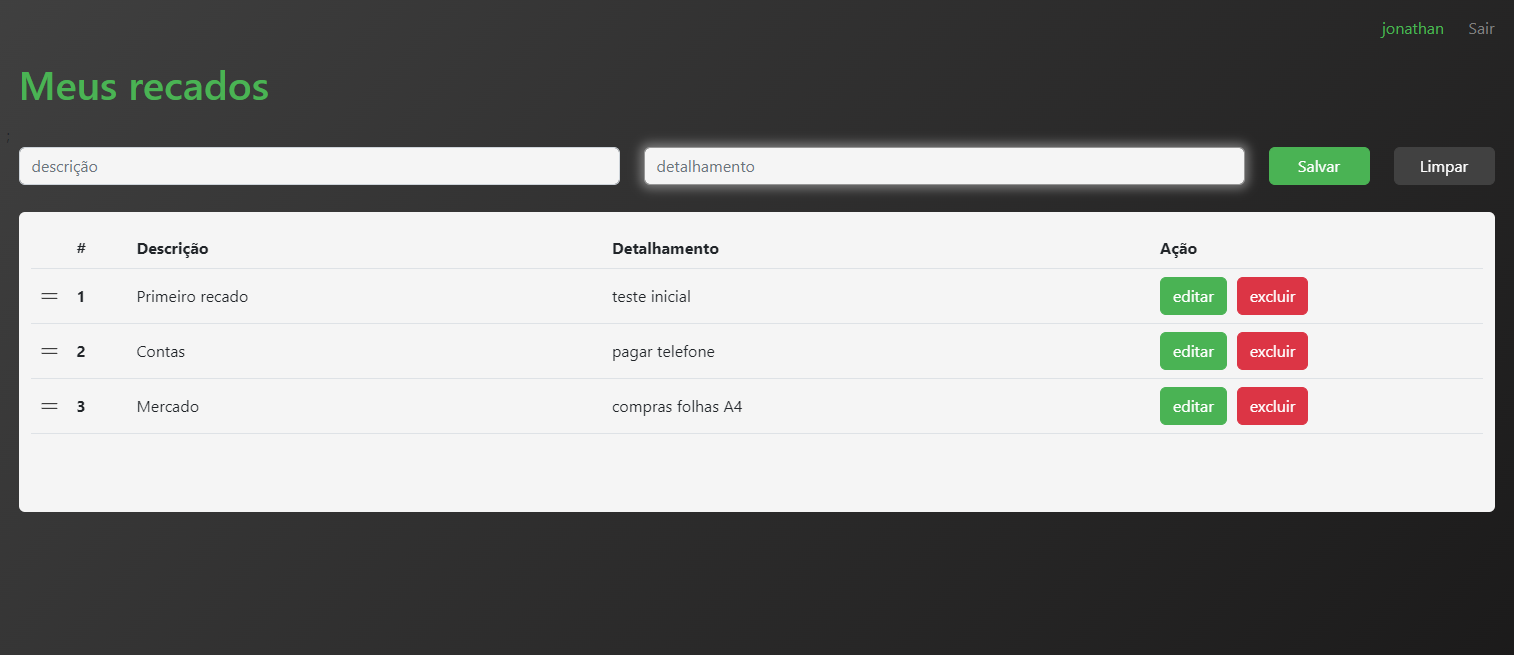
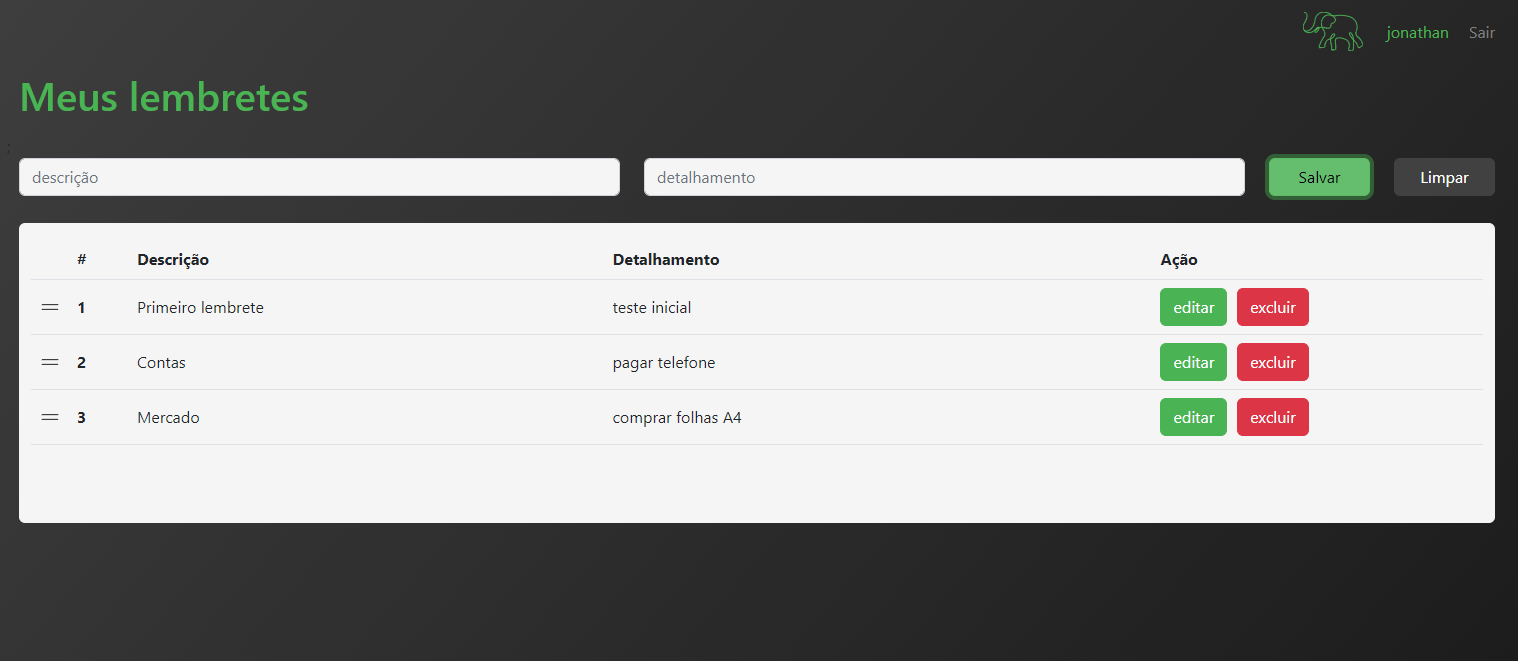
update readme.md

diff --git a/readme.md b/readme.md
@@ -1,13 +1,13 @@
-# APP de Recados
+# APP de Lembretes
 
 O APP consiste em três páginas que permitem:
 - Registro de usuários
 - Login
-- Exibição de recados 
-- Adição de novo recado
-- Edição de recado
-- Exclusão de recado
-- Reordenar recados
+- Exibição de lembretes 
+- Adição de novo lembrete
+- Edição de lembrete
+- Exclusão de lembrete
+- Reordenar lembretes
 
 A proposta foi exercitar mecanismos de CRUD (_create_, _read_, _update_, _delete_) utilizando ```localStorage``` para persistir os dados.
 
@@ -40,7 +40,7 @@ Os dados de Registro são salvos no ```LocalStorage``` para futura utilização.
 
 <br>
 
-O código ```Javascript``` da **página de Recados** valida as informações digitadas no formulário e só libera o botão de registro (criar conta) quando:
+O código ```Javascript``` da **página de Criar Conta** valida as informações digitadas no formulário e só libera o botão de registro (criar conta) quando:
 - Todos campos estão preenchidos
 - Dois campos de senha conferem (informações digitadas são iguais)
 
@@ -56,15 +56,15 @@ Um campo de informação destaca em vermelho os passos que ainda faltam para a l
 
 ## Página principal
 
-Uma vez logado no sistema, o usuário pode **visualizar**, **adicionar**, **editar** e **excluir** recados através da página principal.
+Uma vez logado no sistema, o usuário pode **visualizar**, **adicionar**, **editar** e **excluir** lembretes através da página principal.
 
 <img src='./images/Main.png'>
 
 <br>
 
-## Reordenar recados
+## Reordenar lembretes
 
-O usuário pode reordenar seus recados facilmente, utilizando os manipuladores no início de cada linha.
+O usuário pode reordenar seus lembretes facilmente, utilizando os manipuladores no início de cada linha.
 
 <img src='./images/Reord.png'>
 
